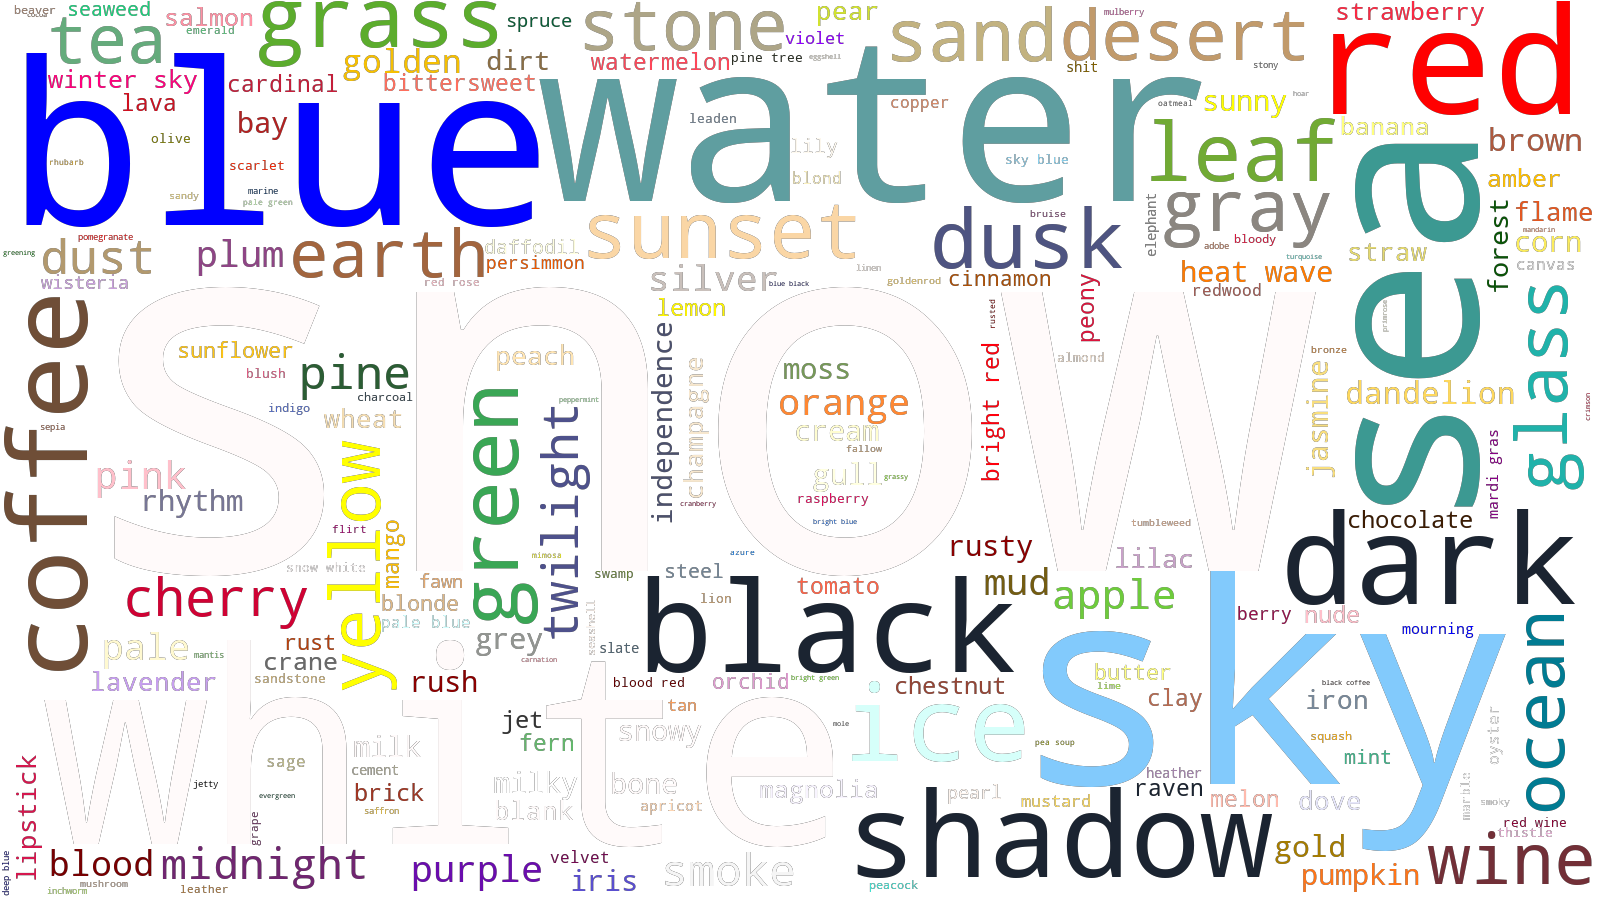
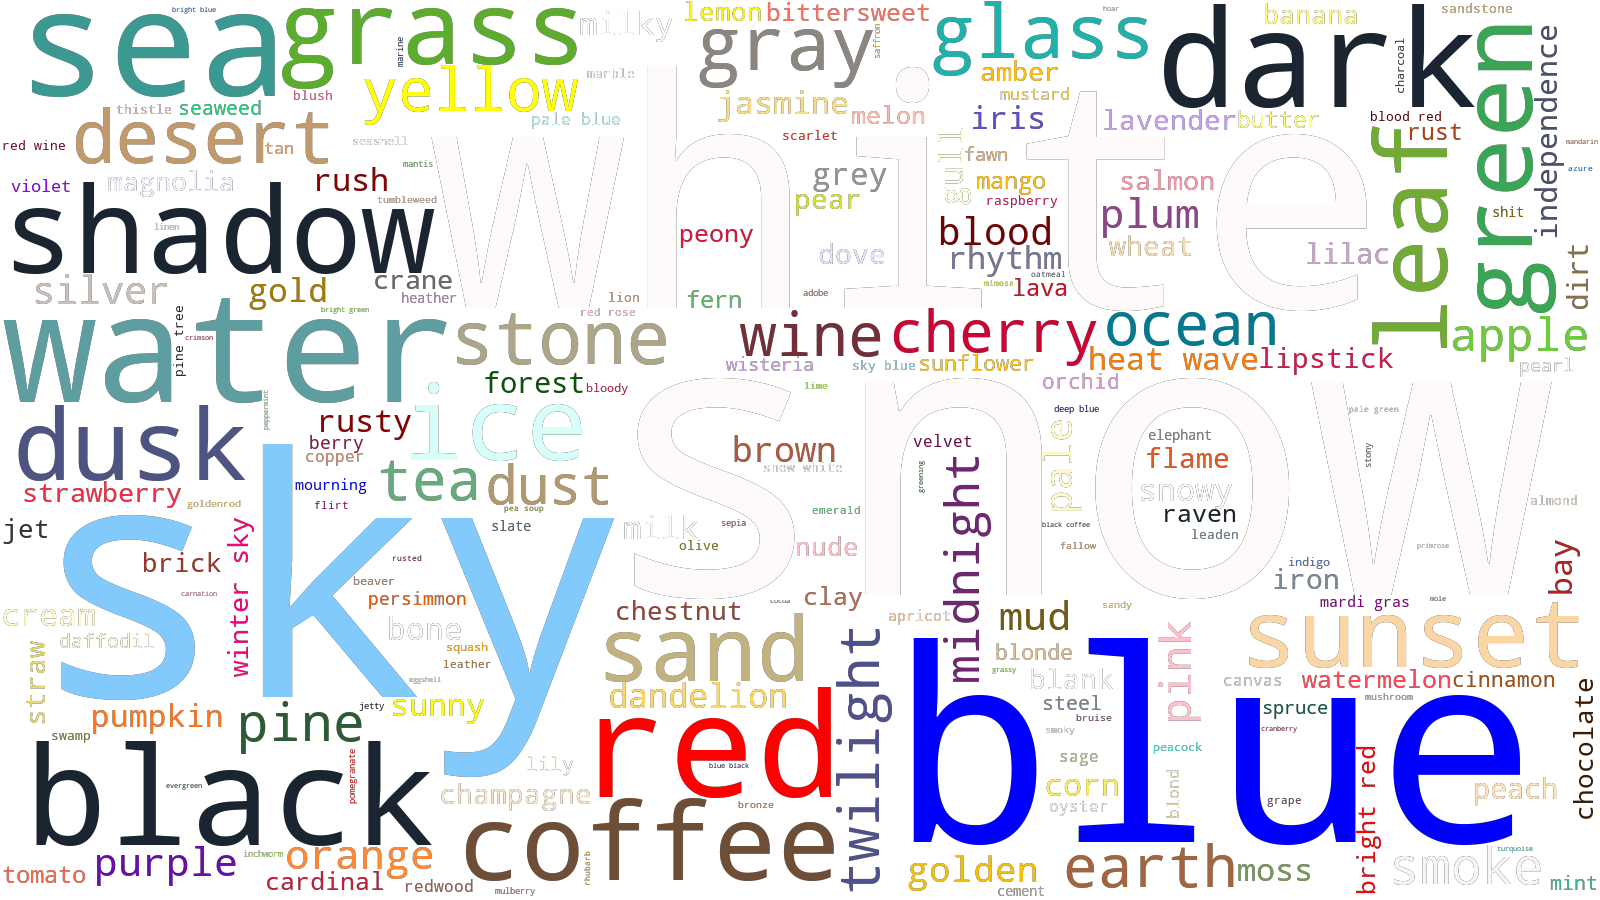
Add writeup on word clouds

diff --git a/html/root/research/haiku/analysis/word-clouds.html b/html/root/research/haiku/analysis/word-clouds.html
@@ -48,6 +48,112 @@
             </ol>
         </nav>
         <h1>3.d. Word Clouds</h1>
+        <p>A popular way of visualizing the content of a corpus is to build a word cloud. There aren't many conclusions you can draw from word clouds, but they're nonetheless amusing.</p>
+        <p>First, we build the word cloud of the entire corpus, without pruning any words.</p>
+        <pre class="language-python pl-3"><code>from collections import Counter
+
+from IPython.display import Image
+from wordcloud import WordCloud
+
+import haikulib.eda.colors
+from haikulib import data, nlp, utils
+
+bag = data.get_bag_of("words", add_tags=False)
+del bag["/"]
+wordcloud = WordCloud(
+    max_words=500, width=1600, height=900, mode="RGBA", background_color=None
+).generate_from_frequencies(bag)
+
+wordcloud.to_file("all-words.png")</code></pre>
+        <p>We can see <em>some</em> of the interesting bits, but they're overwhelmed by words like "a", "the", "in", and "and". These words are called "stop words", and we should remove them.</p>
+        <figure class="figure d-block mx-auto w-100">
+            <img class="figure-img img-fluid rounded w-100" src="http://static.localhost/images/word-clouds/all-words.png" alt="word cloud with stop words">
+            <figcaption class="figure-caption text-right">Word cloud with stop words</figcaption>
+        </figure>
+        <pre class="language-python pl-3"><code>bag = {k: v for k, v in bag.items() if k not in nlp.STOPWORDS}
+
+wordcloud = WordCloud(
+    max_words=500, width=1600, height=900, mode="RGBA", background_color=None
+).generate_from_frequencies(bag)
+
+wordcloud.to_file("without-stopwords.png")</code></pre>
+        <p>The results are much more interesting. The resulting word cloud follows my preconceived notions about haiku, and in this particular case, they seem to be supported by evidence.</p>
+        <figure class="figure d-block mx-auto w-100">
+            <img class="figure-img img-fluid rounded w-100" src="http://static.localhost/images/word-clouds/without-stopwords.png" alt="word cloud without stop words">
+            <figcaption class="figure-caption text-right">Word cloud without stop words</figcaption>
+        </figure>
+        <p>Another set of word clouds I'd like to make is the occurrence of flora and fauna in the haiku corpus.</p>
+        <pre class="language-python pl-3"><code># Form a list of haiku without the `/` symbols.
+df = data.get_df()
+corpus = []
+
+for haiku in df["haiku"]:
+    corpus.append(" ".join(haiku.split("/")))
+
+flower_names = data.get_flowers()
+animal_names = data.get_animals()
+
+color_counts = Counter()
+color_values = dict()
+_df = haikulib.eda.colors.get_colors()
+for _, row in _df.iterrows():
+    color = row["color"]
+    color_counts[color] = row["count"]
+    color_values[color] = row["hex"]
+
+flowers = Counter()
+animals = Counter()
+
+for haiku in corpus:
+    # Update the counts for this haiku.
+    flowers.update(nlp.count_tokens_from(haiku, flower_names, ngrams=[1, 2, 3]))
+    animals.update(nlp.count_tokens_from(haiku, animal_names, ngrams=[1, 2, 3]))</code></pre>
+        <p>There is a large amount of flora mentioned in the haiku, most of which are (naturally) flowers and trees.</p>
+        <pre class="language-python pl-3"><code>wordcloud = WordCloud(
+    max_words=500, width=1600, height=900, mode="RGBA", background_color=None
+).generate_from_frequencies(flowers)
+
+wordcloud.to_file("flora.png")</code></pre>
+        <figure class="figure d-block mx-auto w-100">
+            <img class="figure-img img-fluid rounded w-100" src="http://static.localhost/images/word-clouds/flora.png" alt="Flora in the haiku corpus">
+            <figcaption class="figure-caption text-right">Flora in the haiku corpus</figcaption>
+        </figure>
+        <p>My big <a href="https://github.com/Notgnoshi/research/blob/master/data/fauna.txt">list</a> of fauna also contains a number of flora, but I've done my best to filter those out.</p>
+        <pre class="language-python pl-3"><code>wordcloud = WordCloud(
+    max_words=500, width=1600, height=900, mode="RGBA", background_color=None
+).generate_from_frequencies(animals)
+
+wordcloud.to_file("fauna.png")</code></pre>
+        <figure class="figure d-block mx-auto w-100">
+            <img class="figure-img img-fluid rounded w-100" src="http://static.localhost/images/word-clouds/fauna.png" alt="Fauna in the haiku corpus">
+            <figcaption class="figure-caption text-right">Fauna in the haiku corpus</figcaption>
+        </figure>
+        <p>Lastly, here's a simple representation of the color palette of the haiku. Note I had to modify some of the light and dark color values so that they're visible with a transparent background.</p>
+        <pre class="language-python pl-3"><code>def color_words(word, *args, **kwargs):
+    # Black on a black background doesn't look so hot.
+    rgb = color_values[word]
+    if word in {"white", "blank", "milk", "bone"}:
+        rgb = color_values["snow"]
+    elif word in {"black", "raven", "shadow"}:
+        rgb = color_values["dark"]
+
+    return rgb
+
+wordcloud = WordCloud(
+    max_words=500,
+    width=1600,
+    height=900,
+    mode="RGBA",
+    background_color=None,
+    min_font_size=7,
+    color_func=color_words,
+).generate_from_frequencies(color_counts)
+
+wordcloud.to_file("colors.png")</code></pre>
+        <figure class="figure d-block mx-auto w-100">
+            <img class="figure-img img-fluid rounded w-100" src="http://static.localhost/images/word-clouds/colors.png" alt="Color palette word cloud">
+            <figcaption class="figure-caption text-right">Color palette word cloud</figcaption>
+        </figure>
     </div>
 </body>
 <!-- TODO: Find the integrity hash for <em>this</em> version. -->

diff --git a/html/root/research/haiku/index.html b/html/root/research/haiku/index.html
@@ -60,7 +60,7 @@
                     <li><a href="/research/haiku/analysis/temperature-sampling-softmax-layers">Temperature Sampling Softmax Layers</a></li>
                     <li><a href="/research/haiku/analysis/colors">Colors</a></li>
                     <li><a href="/research/haiku/analysis/syllables">Syllables</a></li>
-                    <li><a class="text-danger" href="/research/haiku/analysis/word-clouds">Word Clouds</a></li>
+                    <li><a href="/research/haiku/analysis/word-clouds">Word Clouds</a></li>
                     <li><a class="text-danger" href="/research/haiku/analysis/zipfs-law">Zipf's Law</a></li>
                     <li><a class="text-danger" href="/research/haiku/analysis/haiku-similarity">Measuring Haiku Similarity</a></li>
                 </ol>
